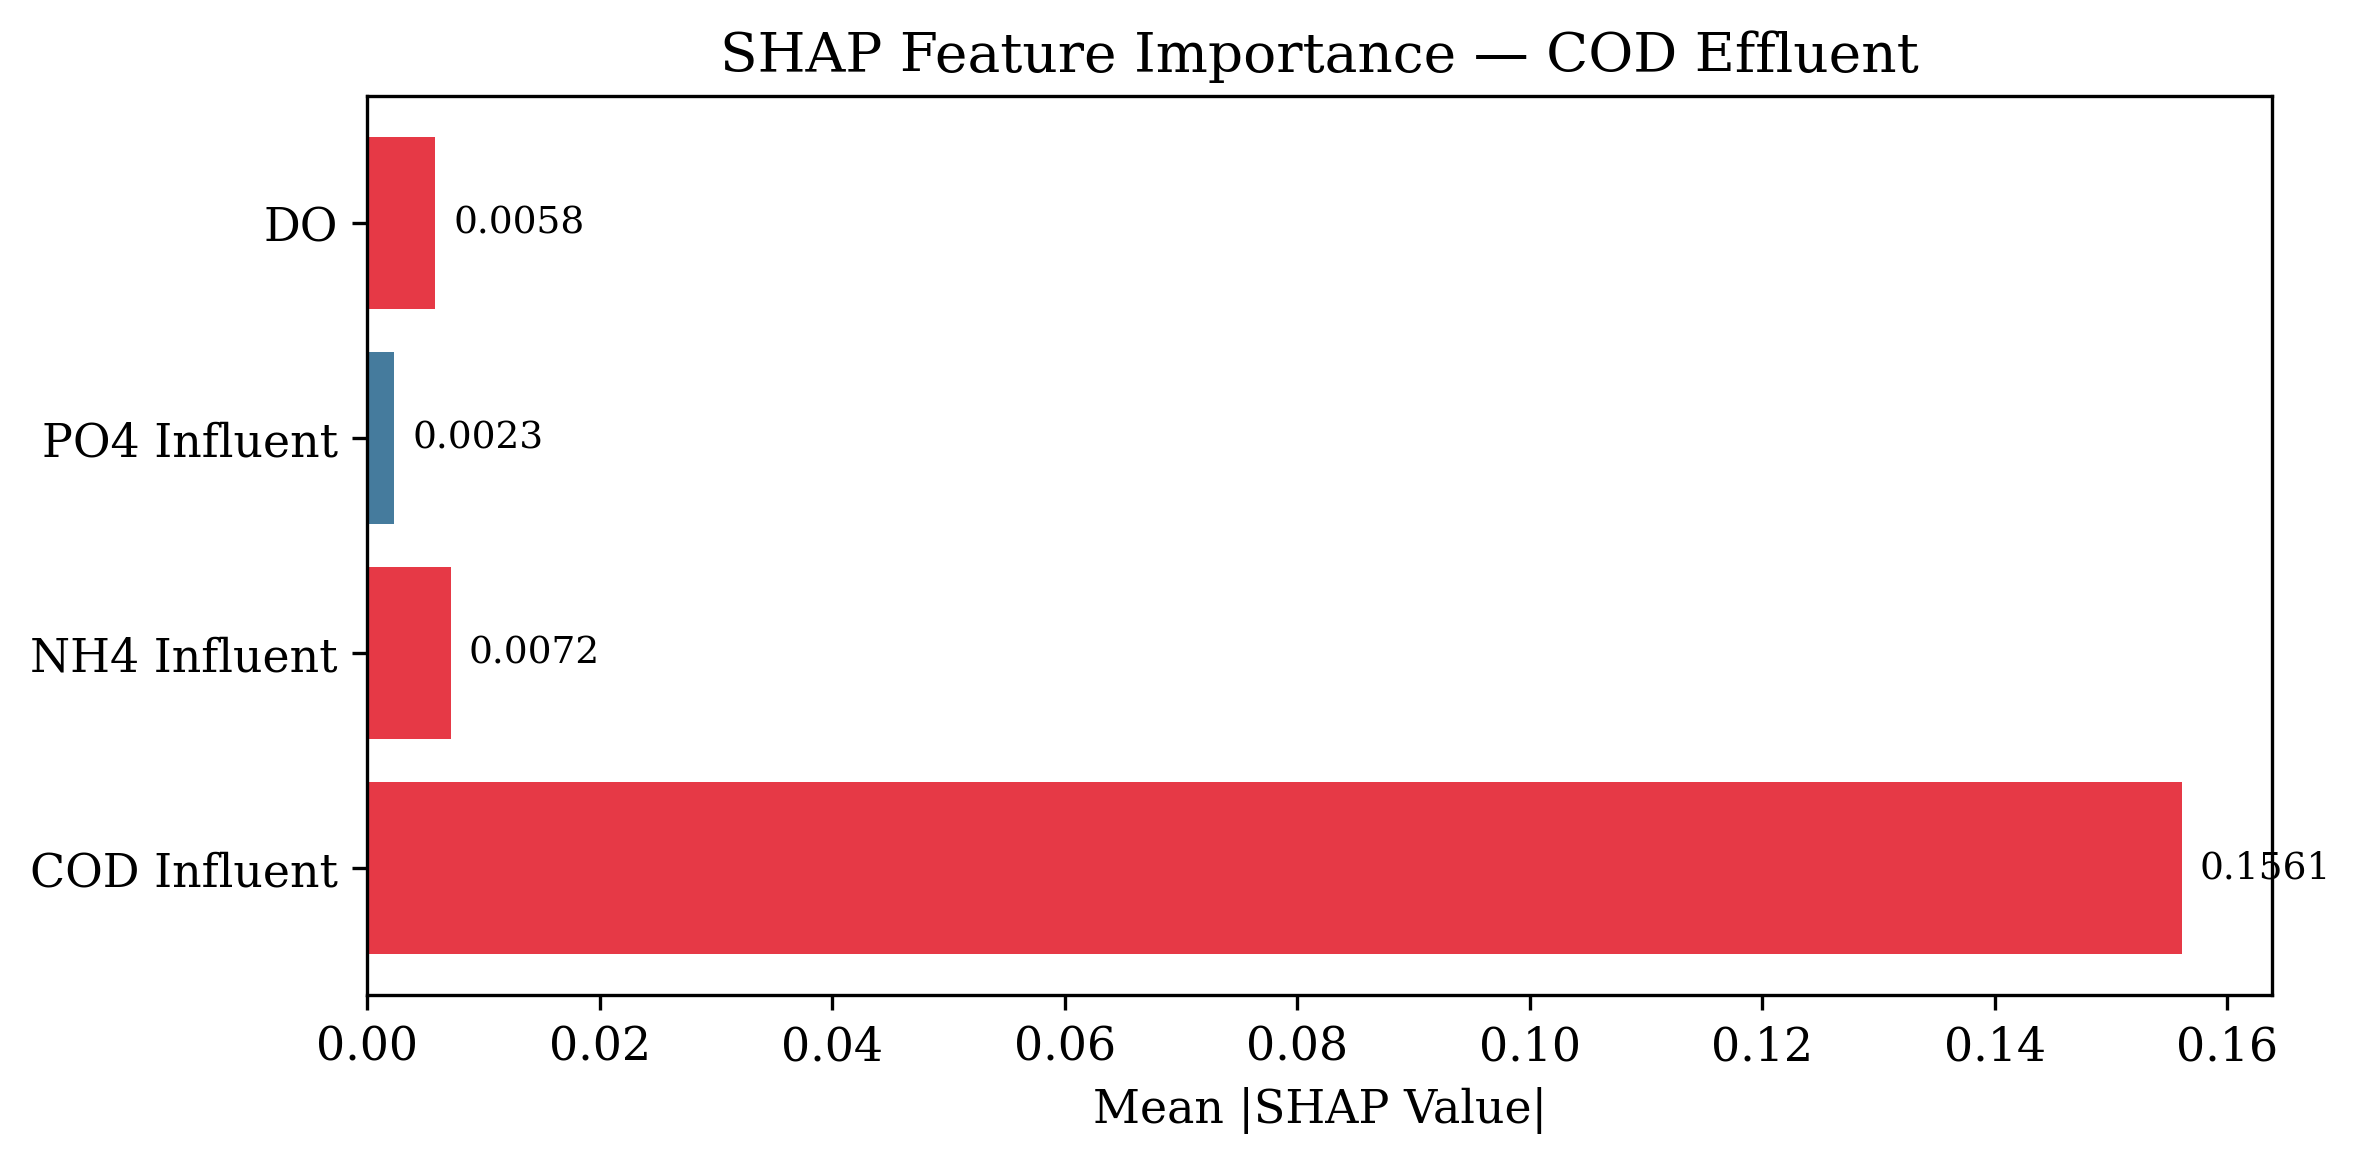
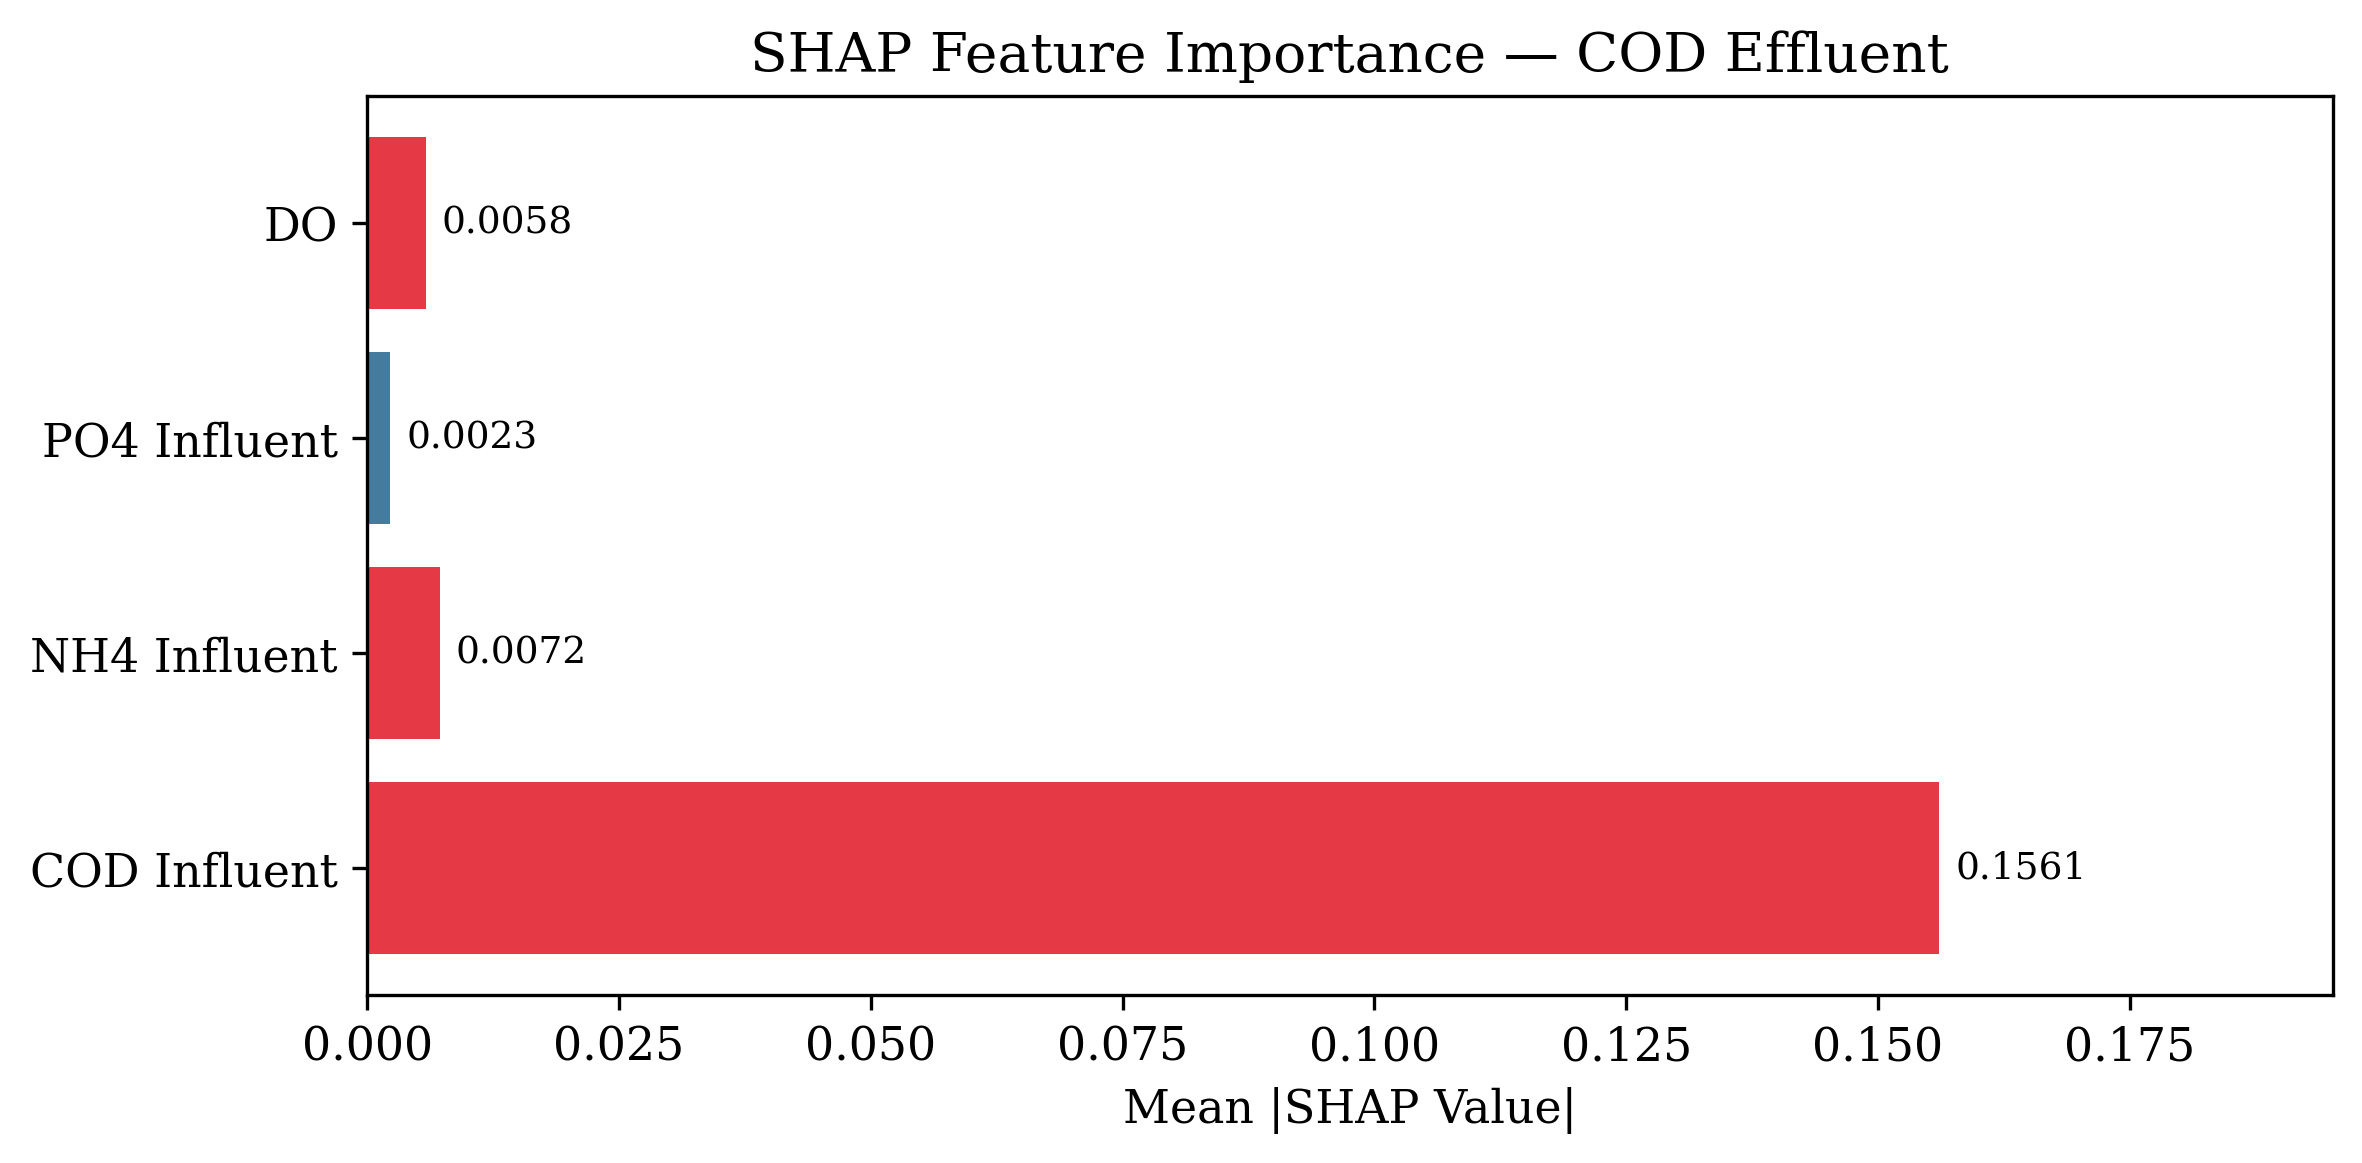
fix: keep figure value labels inside the axes
Bar value labels on the longest bars overflowed the plot frame.

- shap_analysis.py: add 25% right-hand x-axis headroom so the mean |SHAP|
  labels (e.g. 0.1561 / 0.0375 / 0.0228) sit inside the frame.
- generate_domain_of_utility_fig.py: add top-margin on the panel-C log axis
  so the largest advantage-factor label (12.3x) is not clipped.
- Regenerate fig4a/b/c (SHAP) and fig_domain_of_utility with the fixed limits;
  the underlying values are unchanged.

diff --git a/generate_domain_of_utility_fig.py b/generate_domain_of_utility_fig.py
@@ -141,6 +141,8 @@ def main():
                            bar.get_height() * 1.08,
                            f'{val:.1f}×',
                            ha='center', va='bottom', fontsize=9, fontweight='bold')
+    _finite = [a for a in advantages if np.isfinite(a) and a > 0]
+    ax_ratio.set_ylim(0.8, max(_finite) * 2.2)
     legend_elems = [
         Patch(facecolor='#2A9D8F', label='Low-data regime'),
         Patch(facecolor='#F4A261', label='Noise regime'),

diff --git a/shap_analysis.py b/shap_analysis.py
@@ -87,6 +87,7 @@ def run_shap_analysis(model, train_loader, test_loader):
             ax.text(bar.get_width() + max(mean_abs)*0.01,
                     bar.get_y() + bar.get_height()/2,
                     f'{val:.4f}', va='center', fontsize=9)
+        ax.set_xlim(0, max(mean_abs) * 1.25)
         ax.set_xlabel('Mean |SHAP Value|')
         ax.set_title(f'SHAP Feature Importance — {tlabel}')
         plt.tight_layout()
